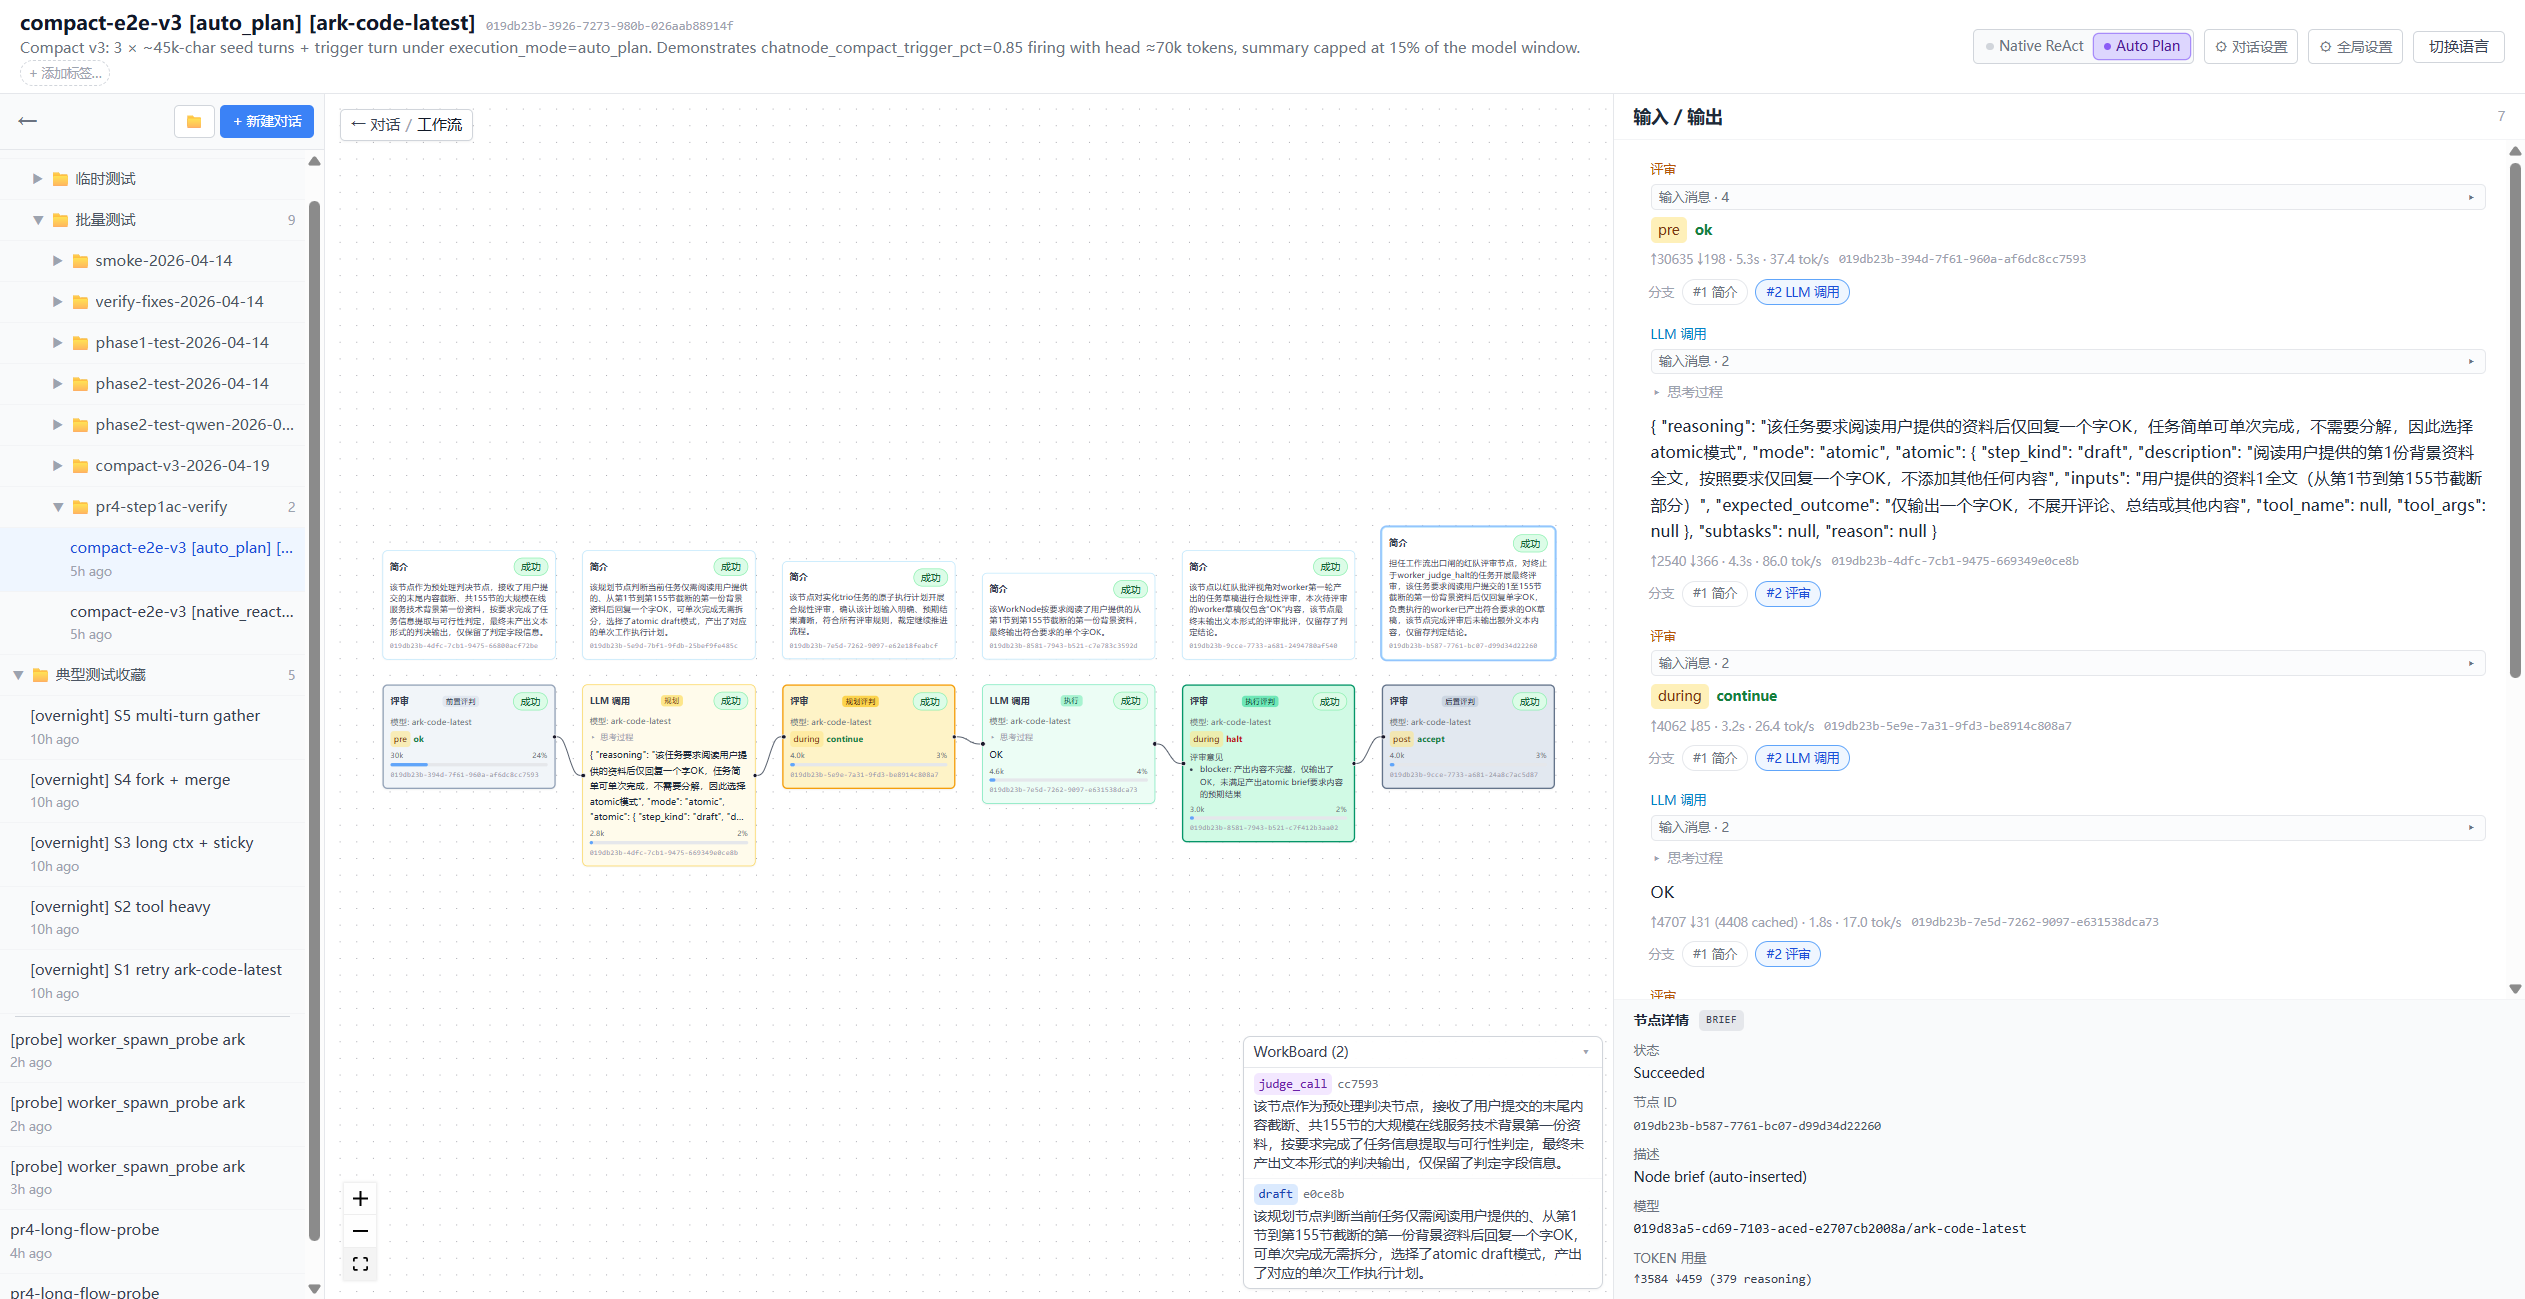
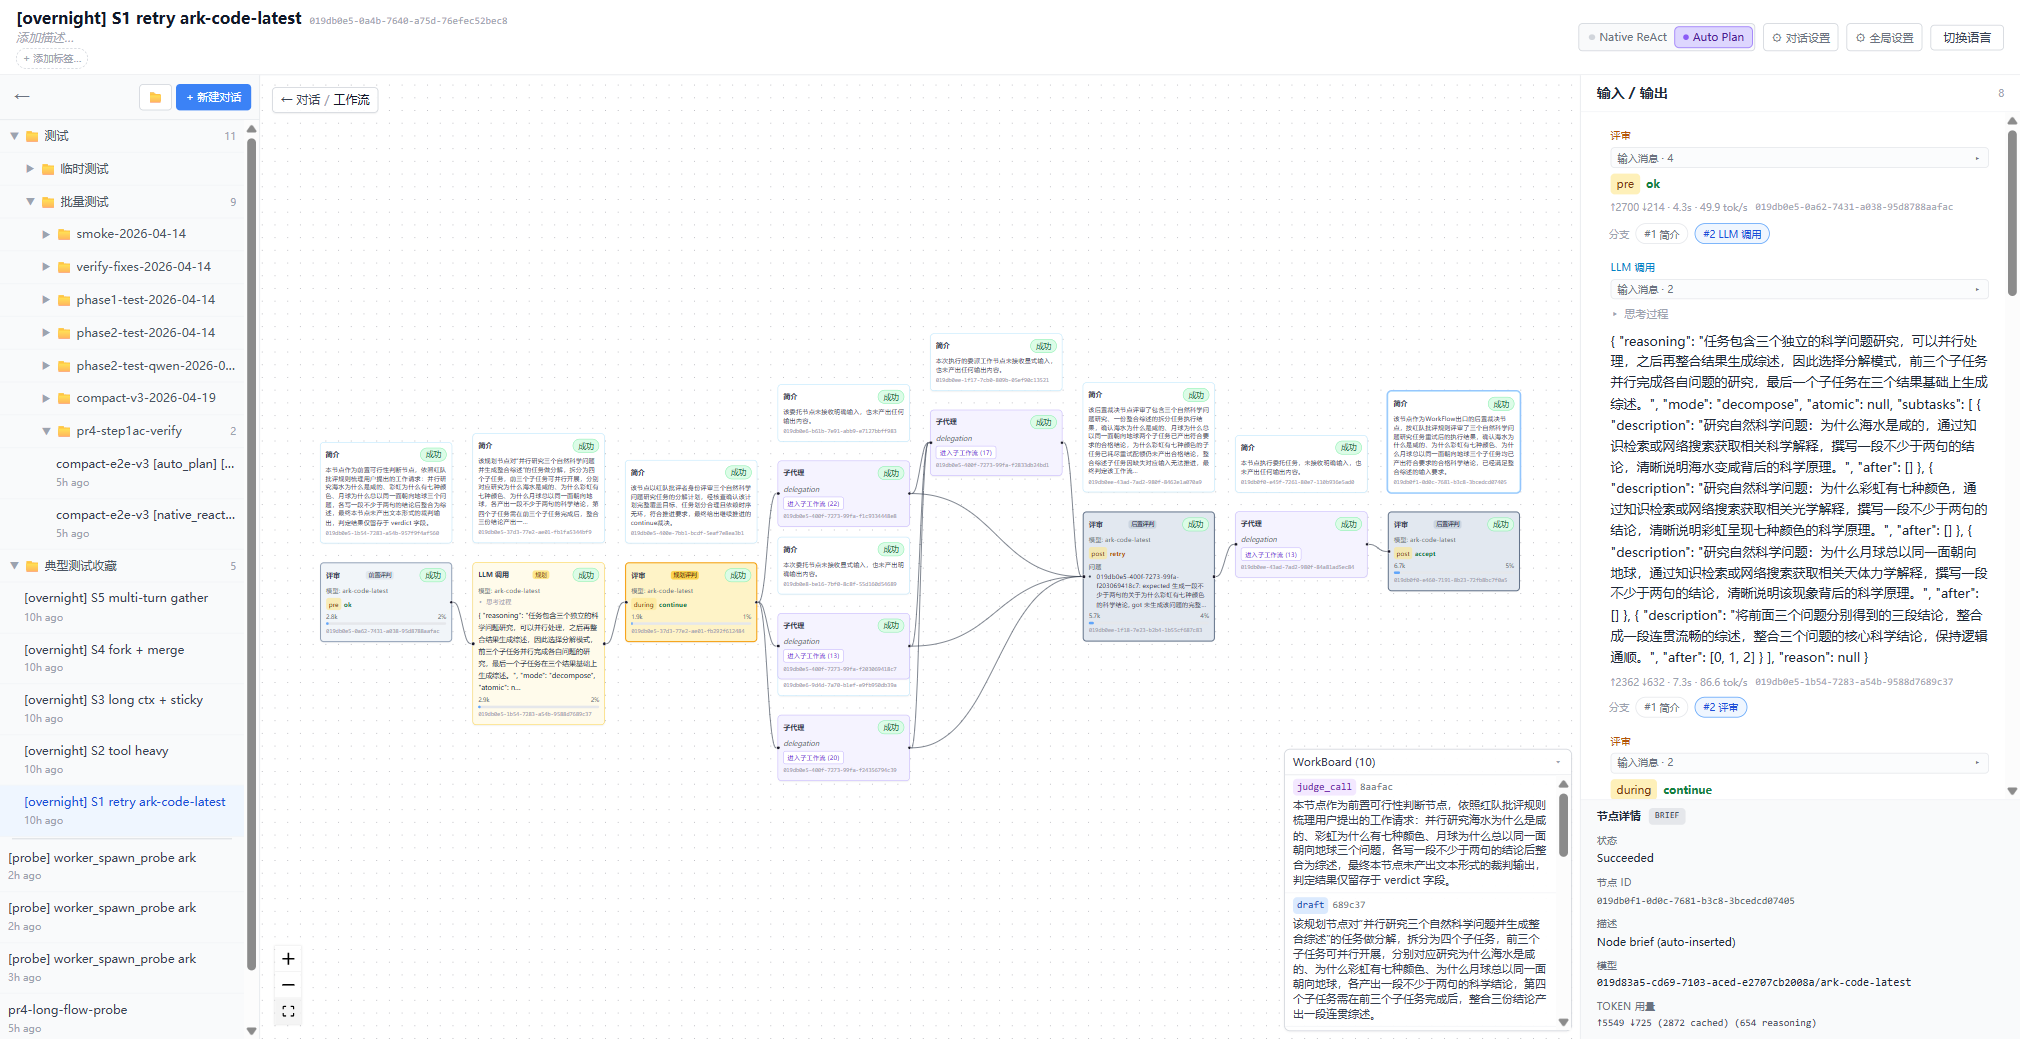
README: swap 04 screenshot for a richer 20-WorkNode DAG
The previous 04-workflow-canvas.png showed a ~12-node near-linear flow
that didn't convey how much structure the planner actually produces.
Swapped in the S1 retry auto_plan flow: 20 WorkNodes arranged as
judge_pre → plan → plan_judge → parallel worker+worker_judge lanes →
a 4-parent post_judge fan-in → a second retry cycle. Updated the bilingual
caption to describe the topology so readers know what to look for.

diff --git a/README.md b/README.md
@@ -47,9 +47,11 @@
   让 judge 审阅产出。子 agent 委派会开出一个嵌套的 WorkFlow，它的事件流会往上
   转发到父 WorkFlow。
 
-  ![WorkFlow 内部视图：点击 ChatNode 的 ⤢ 按钮钻入后，可以看到 planner 生成的
-  judge_pre / plan / 并行 worker / judge_post 这张 DAG，每个 WorkNode 都能看到
-  它的输入、输出、状态、耗时。](docs/images/04-workflow-canvas.png)
+  ![WorkFlow 内部视图（S1 retry 流）：auto_plan 模式下 20 个 WorkNode 展开成
+  judge_pre → plan → plan_judge → 多个并行 worker/worker_judge → 4-parent
+  扇入的 post_judge → retry cycle 再跑一轮的 DAG。每个 WorkNode 都能看到
+  自己的输入、输出、状态、耗时；右下角的 WorkBoard 浮窗列出全部 brief。
+  ](docs/images/04-workflow-canvas.png)
 
 - **Plan / Execute 分离。** 每个节点都有两态：虚线（已规划，可编辑）→ 实线（已
   执行，已冻结）。你可以在执行前修改计划，执行后查看现场；想重来就开分支——原来

diff --git a/README.en.md b/README.en.md
@@ -56,9 +56,12 @@ Concretely, that means:
   (pre / during / post). Sub-agent delegations spawn nested WorkFlows with
   their own event stream forwarded up to the parent.
 
-  ![Inner WorkFlow view: drilling into a ChatNode via the ⤢ button surfaces
-  the planner-generated judge_pre / plan / parallel workers / judge_post DAG;
-  each WorkNode exposes its inputs, outputs, status, and latency.](docs/images/04-workflow-canvas.png)
+  ![Inner WorkFlow view (S1 retry flow): an auto_plan ChatNode expanded
+  into a 20-WorkNode DAG — judge_pre → plan → plan_judge → parallel
+  worker/worker_judge lanes → a 4-parent post_judge fan-in → a second
+  retry cycle. Every WorkNode shows its inputs, outputs, status, and
+  latency; the bottom-right WorkBoard floats an index of every brief.
+  ](docs/images/04-workflow-canvas.png)
 
 - **Plan / Execute separation.** Every node has two phases: dashed (planned,
   editable) → solid (executed, frozen). You can edit the plan before it
